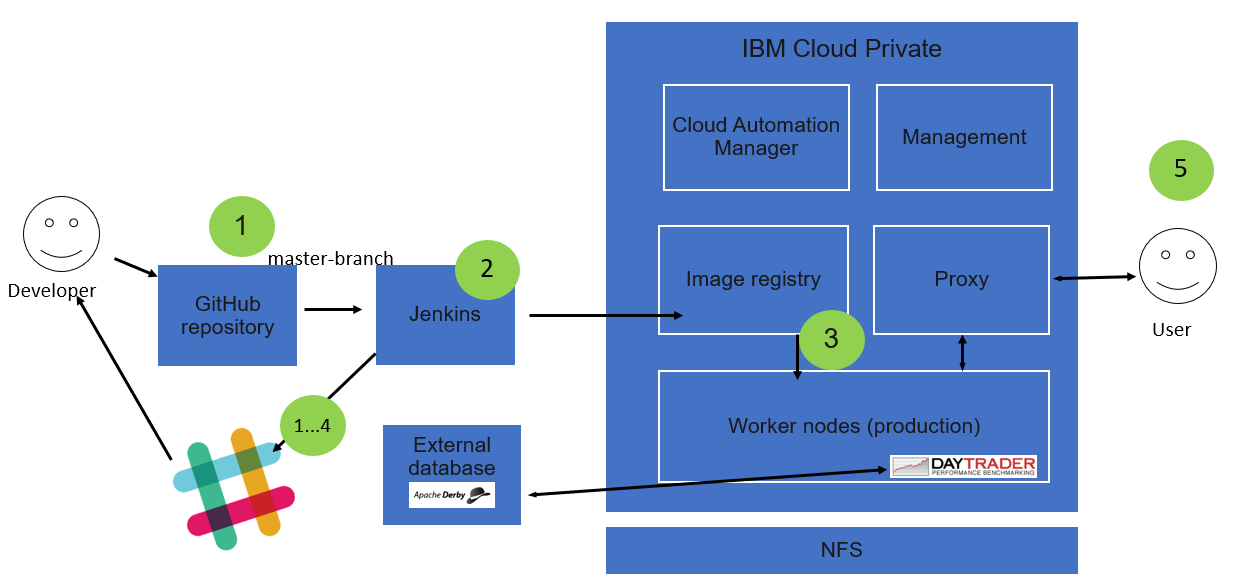
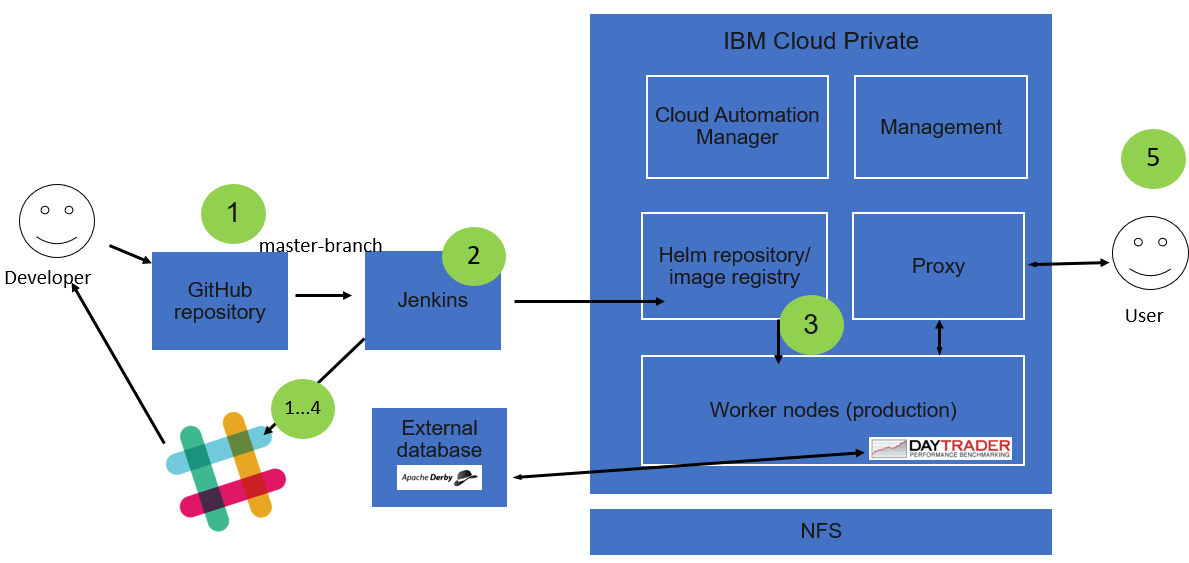
changed to test-branch

diff --git a/README.md b/README.md
@@ -5,9 +5,9 @@ The idea of this demo is to show how IBM Cloud Private and IBM Cloud Automation 
 The application used in this demo environment is [Daytrader, a JEE7 application](https://github.com/samisalkosuo/sample.daytrader7).
 
 The guiding lights of this demo are:
-  - when developer commits to develop-branch --> automatic deployment to AWS.
-    <img src="images/icp_cam_demo_dev.png" alt="dev_aws" width="500"/>
-  - when developer commits to master-branch --> automatic deployment to ICP.
+  - when developer commits & pushes to test-branch --> automatic deployment to AWS.
+    <img src="images/icp_cam_demo_test.png" alt="test_aws" width="500"/>
+  - when developer commits & pushes to master-branch --> automatic deployment to ICP.
     <img src="images/icp_cam_demo_prod.png" alt="prod_icp" width="500"/>
 
 Both IBM Cloud Private (ICP) and IBM Cloud Automation Manager (CAM) used in this demo are publicly available Community Editions. When using licensed versions of ICP and CAM, their deployment is a bit different but mostly the same steps apply. 

diff --git a/CHANGES.md b/CHANGES.md
@@ -1,3 +1,7 @@
+## 0.7
+
+- Updated sample application and pipeline. Now has test-branch.
+
 ## 0.6
 
 - Updated scripts, CAM service, etc. to ICP 3.1.0.
